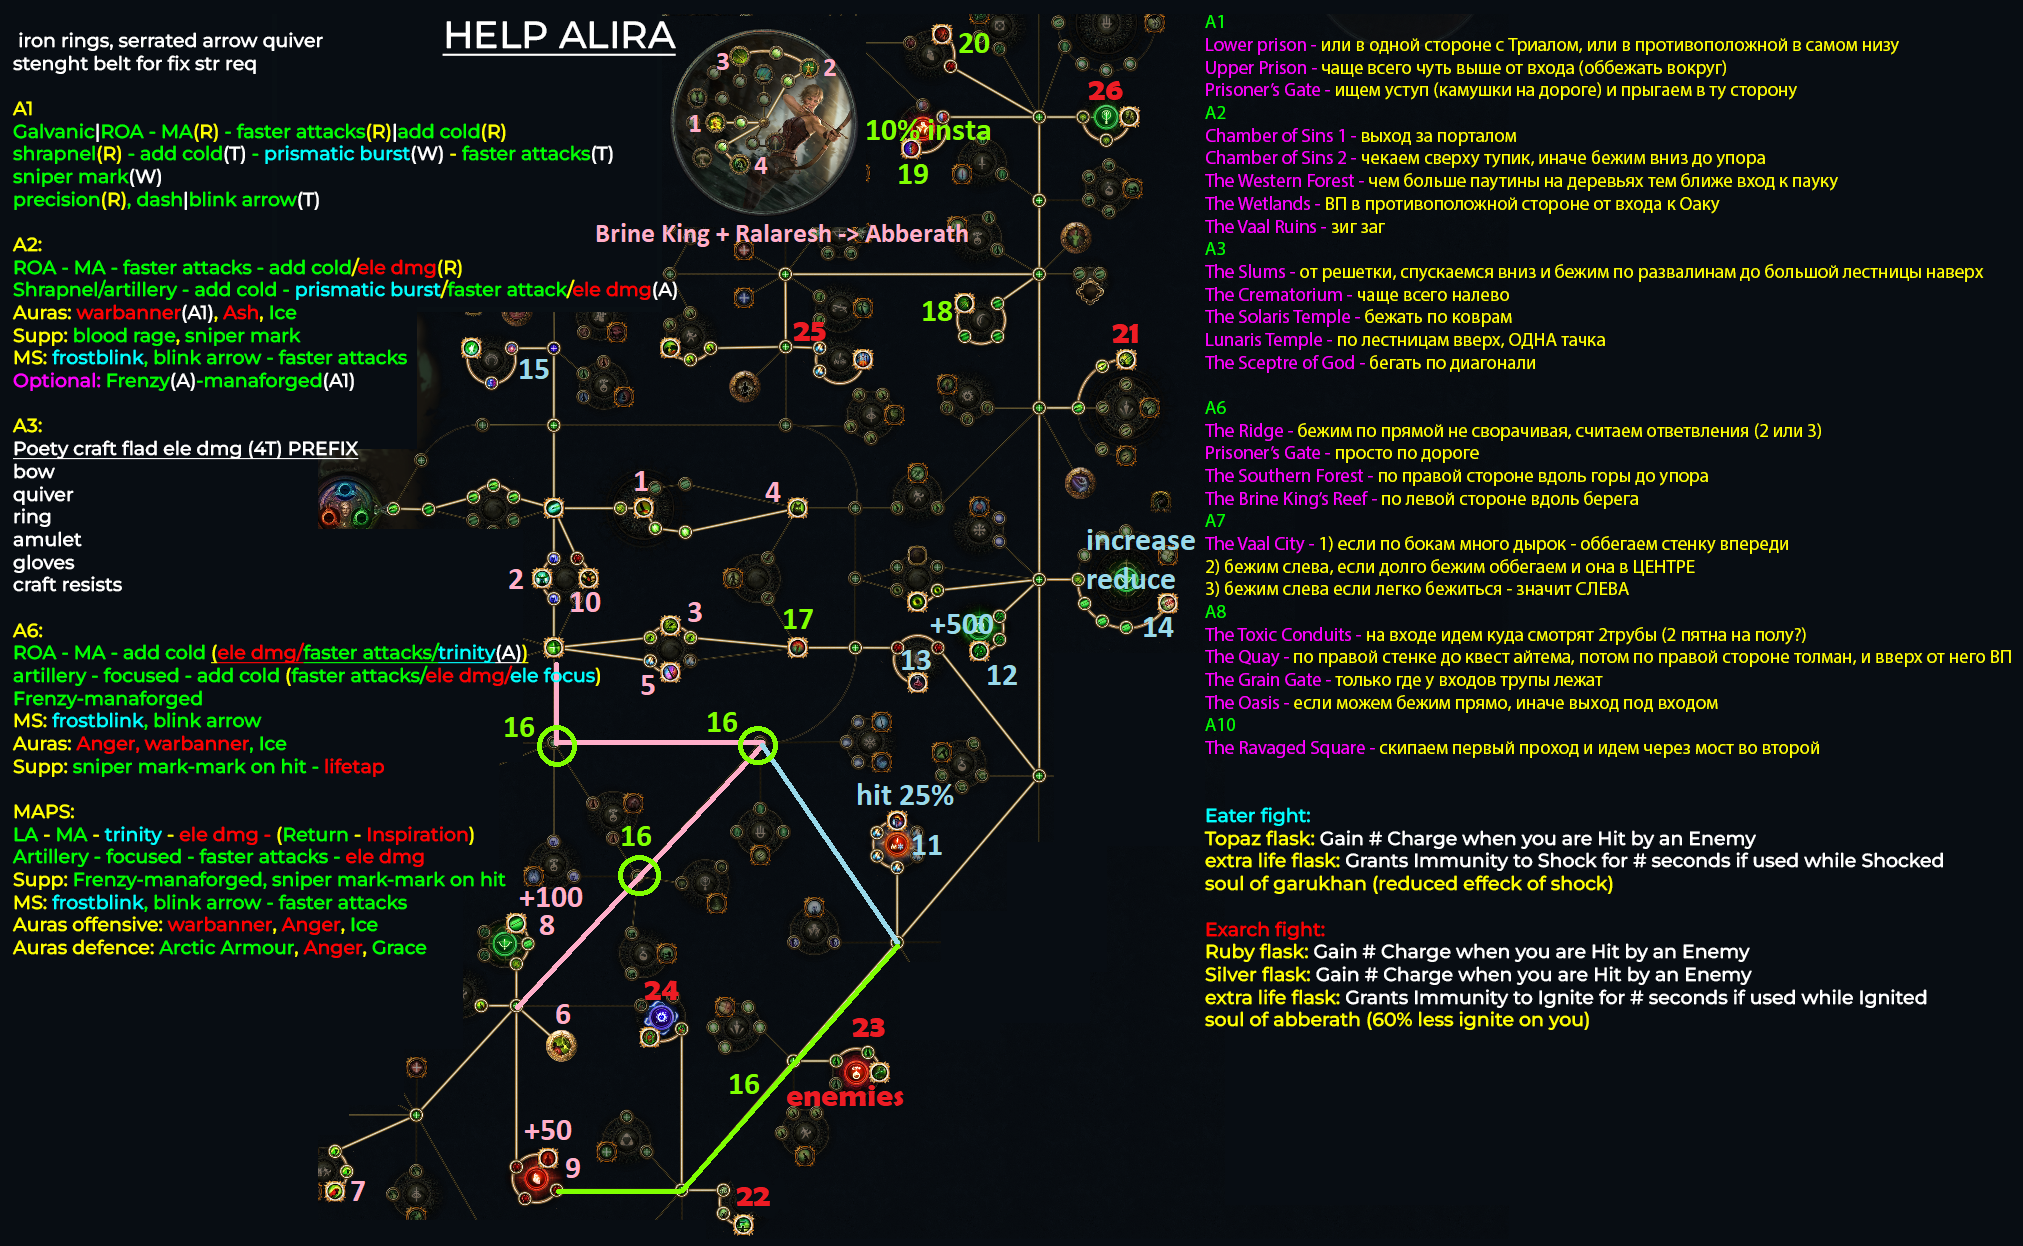
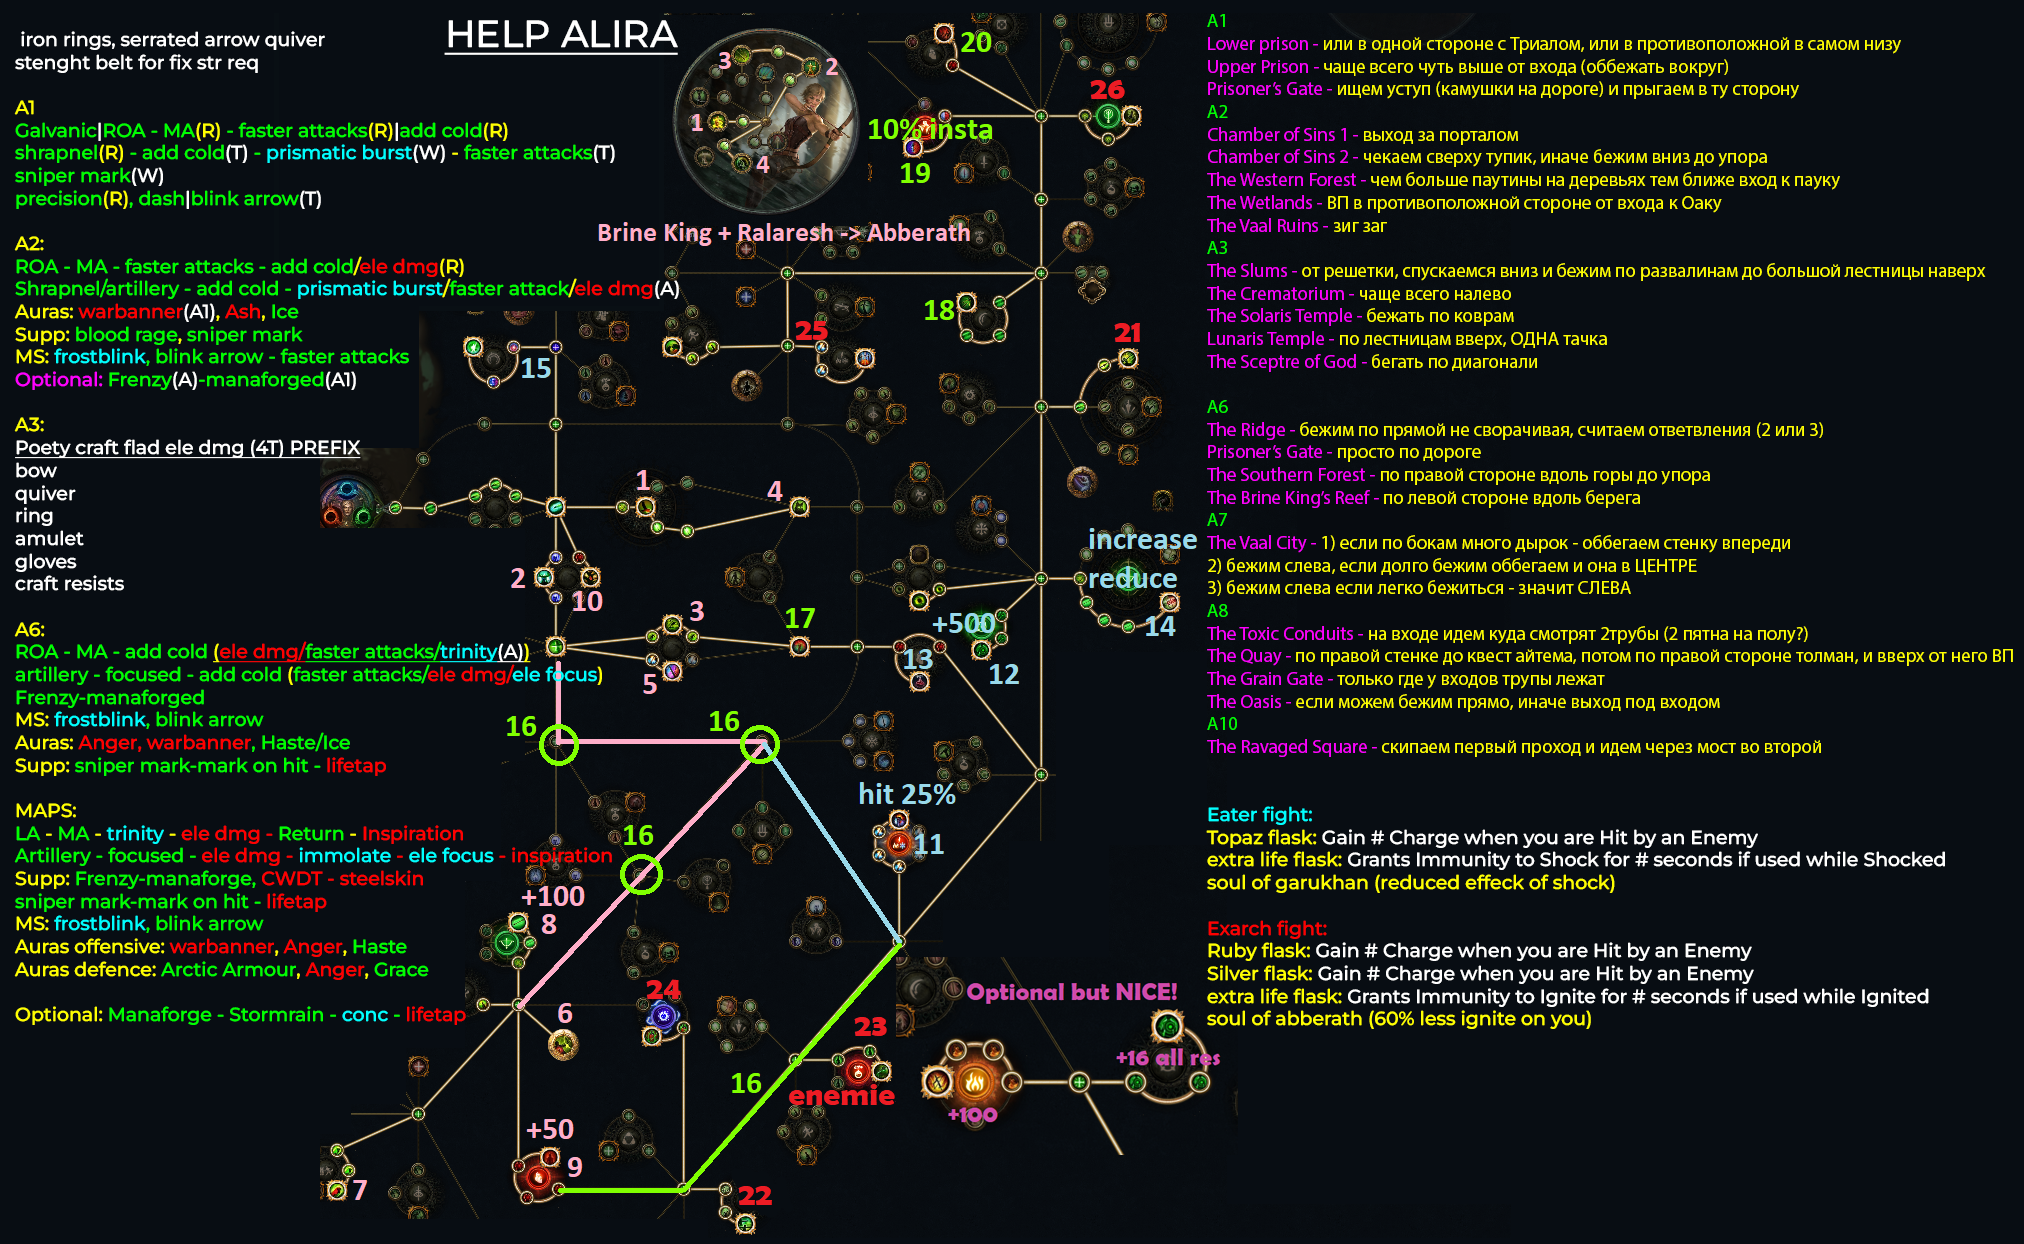
added new pages and content

diff --git a/trees.html b/trees.html
@@ -49,56 +49,56 @@
 	</aside>
 	<section>
 		<p class="aside-menu">
-		<p><redgem>"!tal d|gen|eec|non|o bl|s ac"</redgem></p></p>
-		<p><a href="https://poeplanner.com/a/AM5" target="_blank" style="text-decoration:none;"><redgem>Step 1 - Basic Tree</redgem></a></br>
-		Expedition, Essences and June are optional</br>
-			Torments, Exarch and Essences are at the end
-		</p>
+		<p><redgem>"!non|tal d|s ac|eec"</redgem></p></p>
+		<p><a href="https://poeplanner.com/a/uDg" target="_blank" style="text-decoration:none;"><redgem>Step 1 - Basic Tree</redgem></a></p>
 		<p><img src="images/atlas_start.png" style="height: 880px"></p><br>
-		<p><a href="https://poeplanner.com/a/Apx" target="_blank" style="text-decoration:none"><redgem>Step 2 - Legion + Beyond (слабенький MF)</redgem></a></p>
+
+
+
+		<p><a href="https://poeplanner.com/a/uD8" target="_blank" style="text-decoration:none"><redgem>112points Step 2 - Дешевый Legion</redgem></a></p>
+		<p><strong>Stream of Consciousness берем если нет скрабов, или на экспедицию и без него</strong></br>
+		11 Dunes + 1 Mesa</br>
 		<p><strong>Scarab:</strong></br>
 			Polished Legion Scarab (+1 legion)</br>
-			Polished Divination Scarab (+100% cards)</br>
-			Polished Reliquary scarab (+100% uniques)</br>
-			Polished Torment scarab (+5 torment spirits)</br>
 			<strong>Sextant:</strong></br>
 			Your Maps contain an additional Legion Encounter</br>
-			Splinters and Emblems dropped by Legion Monsters in your Maps are duplicated</br>
-			Slaying Enemies close together can attract monsters from Beyond this realm</br>
 			25% increased Magic Pack Size</br>
-		</p>
-		<p><a href="https://poeplanner.com/a/A4w" target="_blank" style="text-decoration:none"><redgem>Step 3  - FULL MF - Legion + Beyond (конверт кванты с вандерингом) </redgem></a></p>
-		<p><strong>Scarab:</strong></br>
-			Polished Legion Scarab (+1 legion)</br>
-			Polished Divination Scarab (+100% cards)</br>
-			Polished Reliquary scarab (+100% uniques)</br>
-			Polished Torment scarab (+5 torment spirits)</br>
-			<strong>Sextant:</strong></br>
-			Your Maps contain an additional Legion Encounter</br>
-			Splinters and Emblems dropped by Legion Monsters in your Maps are duplicated</br>
-			Slaying Enemies close together can attract monsters from Beyond this realm</br>
-			25% increased Magic Pack Size</br>
+			Gloom Shrine/50% shrine effects</br>
 		</p>
 
 
-		<p>Агромоф. Первые 2 дня</br>
-			Основа - https://poeplanner.com/a/Ag3</br>
-			Ритуалы + боксы - https://poeplanner.com/a/A49</br>
-			Экспедиция  - https://poeplanner.com/a/A4O</br>
-			Легионы + бричи - https://poeplanner.com/a/A4b</br>
-			Делириум - https://poeplanner.com/a/A41</br>
-			харвест - https://poeplanner.com/a/A4F</br>
-			синдикат - https://poeplanner.com/a/A4k</br>
 
-			После 2 дней - бигус фарм</br>
-			легионы + бричи - https://poeplanner.com/a/A5w</br>
-			Фарм сплинтеров делириум миррор - https://poeplanner.com/a/ARR</br>
-			экспедиция надутая - https://poeplanner.com/a/ARs</br>
-			босс раш - https://poeplanner.com/a/AR2</br>
-			Абисы - https://poeplanner.com/a/ARV</br>
-			конверт кванты + легионы + бейонды - https://poeplanner.com/a/A4r</br>
-			конверт кванты с вандерингом - https://poeplanner.com/a/A4w</br>
-		какой то мф с вандеринг пассом и конвертом. легионы + абис https://poeplanner.com/a/jO0</p>
+
+		<p><a href="https://maxroll.gg/poe/poe-atlas-tree/fhrf07gn" target="_blank" style="text-decoration:none"><redgem>128 points Step 3  - Full Legion + Expedition </redgem></a></p>
+		По возможности добавляем beyond на мапу compass + TORN VEIL все кольцо + Polish Div scarab 10с-</br>
+		<p><strong>Scarab:</strong></br>
+			Polished Legion Scarab (+1 legion)</br>
+			Rusted Expedition Scarab</br>
+			Rusted Sulphite Scarab</br>
+			<strong>Sextant:</strong></br>
+			Your Maps contain an additional Legion Encounter</br>
+			25% increased Magic Pack Size</br>
+			Gloom Shrine/50% shrine effects</br>
+		</p>
+
+		<p><a href="https://docs.google.com/spreadsheets/d/e/2PACX-1vR35NJkrhF1Zf9SZZOPlsdpqbTibL2AqOiZosya0NSjEN5A1Dx8a_MeQox9VDLQw3kB0ibZCNb_e6VJ/pubhtml#" target="_blank" style="text-decoration:none"><redgem>MF altases</redgem></a></p>
+		Для слабых билдов: без вандеринга и без бейондов, добавляем шрайны</br></br>
+
+
+		<p>АГРОМОРФ: Первые 2 дня атласы</br>
+			Основа https://poeplanner.com/a/Uu8</br>
+			Ритуал + Боксы - https://poeplanner.com/a/Uuk</br>
+			Экспедиция маппинг + боксы https://poeplanner.com/a/Uu2</br>
+			Конвенрт кванты + Легионы https://poeplanner.com/a/UuF</br>
+			Делириум https://poeplanner.com/a/Uuf</br>
+			Харвест https://poeplanner.com/a/UpJ</br>
+			Синдикат + Экспедиция https://poeplanner.com/a/UpD</br>
+			Ультиматум https://poeplanner.com/a/UpG</br>
+			3+ день фарм</br>
+			Легионы - https://poeplanner.com/a/Up7</br>
+			Фарм сплинтеров на симули - https://poeplanner.com/a/UpM</br>
+			Босс раш - https://poeplanner.com/a/Upq</br>
+			Вандеринг мф - https://poeplanner.com/a/Up0</p>
 
 
 	</section>

diff --git a/gear.html b/gear.html
@@ -48,10 +48,11 @@
 		</nav>
 	</aside>
 	<section>
-		<p><a href="https://vilsol.github.io/timeless-jewels/tree?jewel=2&conqueror=Rakiata&seed=11057&location=60735&mode=stats&stat=124&stat=144&stat=451&stat=573&stat=3873&stat=5808&stat=8169" target="_blank" style="text-decoration:none"><redgem>Lethal Pride Jewel</redgem></a></p>
+		<p><a href="https://vilsol.github.io/timeless-jewels/tree?jewel=2&conqueror=Rakiata&seed=11057&location=60735&mode=stats&stat=124&stat=144&stat=451&stat=573&stat=3873&stat=5808&stat=8169" target="_blank" style="text-decoration:none"><redgem>Lethal Pride Jewel double dmg</redgem></a></p>
+		<p><a href="https://maxroll.gg/poe/build-guides/lightning-arrow-deadeye-league-starter" target="_blank" style="text-decoration:none"><bluegem>Lightning Arrow Deadeye League Starter</bluegem></a></p>
 
 		<img src="images/LA_gear.png">
-		<img src="images/LA_TODO.png"align="top">
+		<img src="images/LA_tttt.png"align="top">
 
 
 	</section>

diff --git a/index.html b/index.html
@@ -48,7 +48,7 @@
 		</nav>
 	</aside>
 	<section>
-		<p><bluegem>-\w-.-|g-g-g|nne|rint</bluegem></p>
+<!--		<p><bluegem>-\w-.-|g-g-g|nne|rint</bluegem></p>-->
 
 		<p><img src="images/LA_1.png" width="1430px"></p>
 		<p><img src="images/scheme.png"></p>
